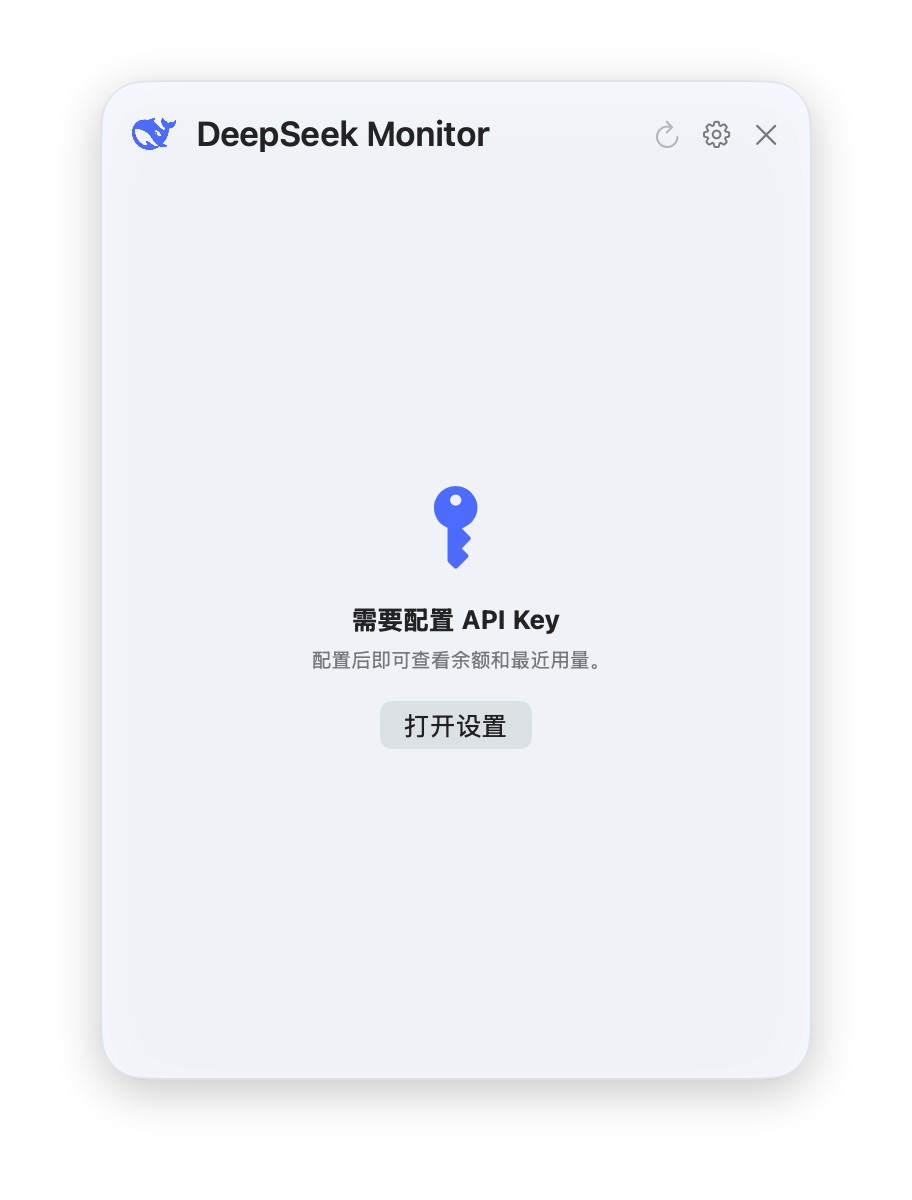
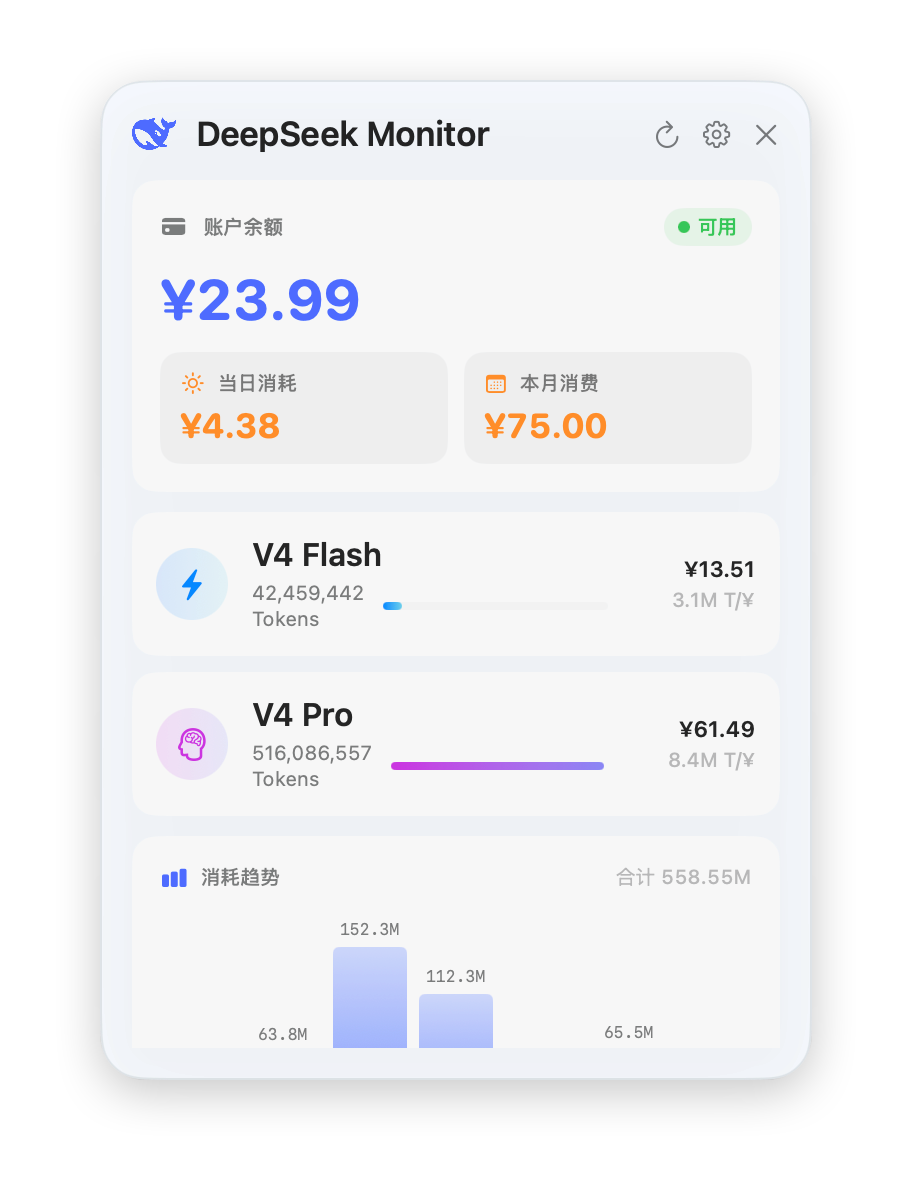
Bump version to 1.5.1

diff --git a/Sources/DeepSeekMonitor/MenuBarManager.swift b/Sources/DeepSeekMonitor/MenuBarManager.swift
@@ -62,17 +62,18 @@ final class MenuBarManager: NSObject {
         statusMenu.autoenablesItems = false
         statusMenu.removeAllItems()
 
-        addStatusMenuItem(title: "刷新", action: #selector(manualRefresh), keyEquivalent: "r")
+        addStatusMenuItem(title: "刷新", action: #selector(manualRefresh), keyEquivalent: "r", icon: "arrow.clockwise")
         statusMenu.addItem(.separator())
-        addStatusMenuItem(title: "设置", action: #selector(openSettings), keyEquivalent: ",")
+        addStatusMenuItem(title: "设置", action: #selector(openSettings), keyEquivalent: ",", icon: "gearshape")
         statusMenu.addItem(.separator())
-        addStatusMenuItem(title: "退出", action: #selector(quitApp), keyEquivalent: "q")
+        addStatusMenuItem(title: "退出", action: #selector(quitApp), keyEquivalent: "q", icon: "rectangle.portrait.and.arrow.right")
     }
 
-    private func addStatusMenuItem(title: String, action: Selector, keyEquivalent: String) {
+    private func addStatusMenuItem(title: String, action: Selector, keyEquivalent: String, icon: String) {
         let item = NSMenuItem(title: title, action: action, keyEquivalent: keyEquivalent)
         item.target = self
         item.isEnabled = true
+        item.image = NSImage(systemSymbolName: icon, accessibilityDescription: nil)
         statusMenu.addItem(item)
     }
 

diff --git a/Sources/DeepSeekMonitor/Views/SettingsView.swift b/Sources/DeepSeekMonitor/Views/SettingsView.swift
@@ -537,7 +537,7 @@ struct SettingsView: View {
                     Text("DeepSeek Monitor")
                         .font(.caption)
                         .foregroundStyle(.secondary)
-                    Text("版本 1.5.0")
+                    Text("版本 1.5.1")
                         .font(.caption2)
                         .foregroundStyle(.tertiary)
                 }

diff --git a/README.md b/README.md
@@ -70,7 +70,7 @@ If the usage API endpoint is unavailable, import data manually via Settings → 
 ## Requirements
 
 - macOS 14 Sonoma or later
-- Apple Silicon or Intel (Universal Binary)
+- Apple Silicon
 - A [DeepSeek API Key](https://platform.deepseek.com/api_keys)
 
 ## License